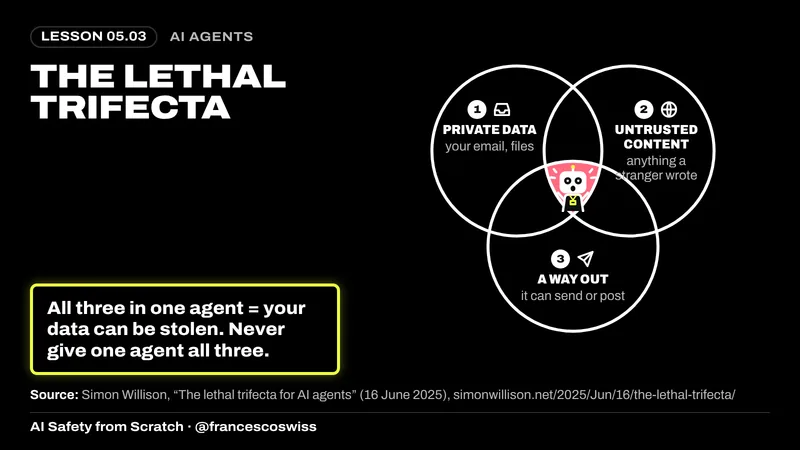
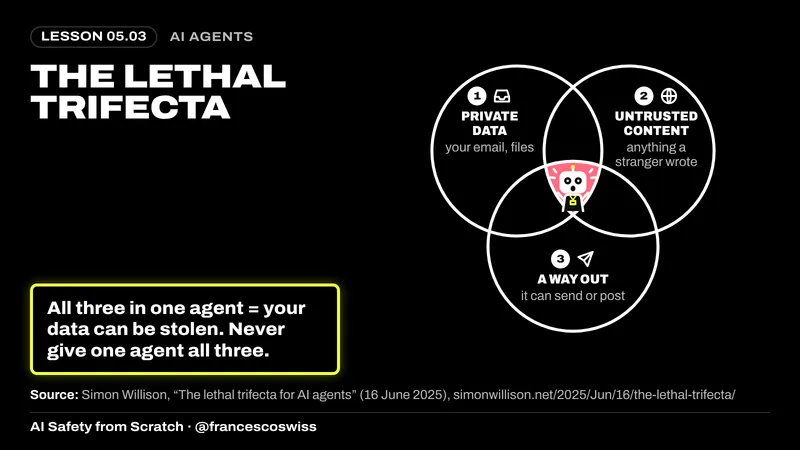
Signal locked: kit tokens 1.0.0, fixed lethal-trifecta figure; unit tests and Playwright specs; tap-target fix for summaries

Changed region(s): [[0.75, 0.1867, 0.875, 0.4044], [0.5312, 0.1867, 0.6875, 0.3422]]

diff --git a/tests/flows.spec.js b/tests/flows.spec.js
@@ -1,0 +1,118 @@
+import { test, expect } from '@playwright/test';
+import { createHash } from 'node:crypto';
+import { watchErrors, go, seedPassedFoundations } from './helpers.js';
+
+test('home shows phase map, XP bar, mascot and counts', async ({ page }) => {
+  const errs = watchErrors(page); await go(page, '#/');
+  await expect(page.getByTestId('phase-map')).toBeVisible();
+  await expect(page.getByTestId('xp-bar').getByRole('progressbar')).toBeVisible();
+  await expect(page.locator('.intern-tile svg').first()).toBeVisible();
+  await expect(page.getByTestId('written-count')).toContainText('24');
+  expect(errs).toEqual([]);
+});
+
+test('lesson: quiz feedback, complete for XP, lab and kit image', async ({ page }) => {
+  const errs = watchErrors(page); await go(page, '#/learn/01-03');
+  await expect(page.locator('img.kit-img, .kit-img img').first()).toHaveAttribute('alt', /.+/);
+  const q = page.getByTestId('question').first();
+  await q.locator('[data-correct=true]').click();
+  await expect(q.locator('.q-explain')).toContainText('Right.');
+  await page.getByTestId('complete').click();
+  await expect(page.getByTestId('xp-mini')).toContainText(/[1-9]\d* XP/);
+  // token predictor lab
+  const text = page.getByTestId('tp-text'); const before = await text.textContent();
+  await page.getByTestId('tp-gen').first().click();
+  await expect(text).not.toHaveText(before);
+  expect(errs).toEqual([]);
+});
+
+test('step-through figure: next/back changes the visible step', async ({ page }) => {
+  await go(page, '#/learn/01-03');
+  const fig = page.locator('figure.steps').first(); await fig.scrollIntoViewIfNeeded();
+  const nav = fig.locator('.steps-nav'); await expect(nav).toBeVisible();
+  await expect(nav.locator('.count')).toHaveText(/^1 of \d+/);
+  await nav.locator('[data-next]').click(); await expect(nav.locator('.count')).toHaveText(/^2 of/);
+  await nav.locator('[data-prev]').click(); await expect(nav.locator('.count')).toHaveText(/^1 of/);
+  expect(await fig.locator('.step:not([hidden])').count()).toBe(1);
+});
+
+test('phase test: 10 questions, pass at 80% (8 right)', async ({ page }) => {
+  await go(page, '#/test/p02');
+  const qs = page.getByTestId('question'); await expect(qs).toHaveCount(10);
+  for (let i = 0; i < 10; i++) await qs.nth(i).locator(i < 8 ? '[data-correct=true]' : '[data-correct=false]').first().click();
+  await page.getByTestId('submit-test').click();
+  await expect(page.getByTestId('test-result')).toHaveAttribute('data-pass', 'true');
+  await expect(page.getByTestId('test-result')).toContainText('8 of 10');
+});
+
+test('phase test: 7 of 10 does not pass; retake draws a different set', async ({ page }) => {
+  await go(page, '#/test/p03');
+  const qs = page.getByTestId('question'); const first = await qs.evaluateAll((e) => e.map((x) => x.dataset.qid).join());
+  for (let i = 0; i < 10; i++) await qs.nth(i).locator(i < 7 ? '[data-correct=true]' : '[data-correct=false]').first().click();
+  await page.getByTestId('submit-test').click();
+  await expect(page.getByTestId('test-result')).toHaveAttribute('data-pass', 'false');
+  await page.getByTestId('retake').click(); await page.waitForTimeout(300);
+  const second = await page.getByTestId('question').evaluateAll((e) => e.map((x) => x.dataset.qid).join());
+  expect(second).not.toBe(first);
+});
+
+test('certificate: locked by default', async ({ page }) => {
+  await go(page, '#/certificate/foundations');
+  await expect(page.getByTestId('cert-locked')).toBeVisible();
+});
+
+test('certificate: PNG + PDF download, code matches an independent SHA-256, verify page accepts it', async ({ page }) => {
+  const errs = watchErrors(page);
+  await seedPassedFoundations(page);
+  await go(page, '#/certificate/foundations');
+  await page.getByTestId('cert-name').fill('Ada Lovelace');
+  await expect(page.getByTestId('cert-canvas')).toHaveAttribute('data-ready', '1');
+  const code = (await page.getByTestId('cert-code').textContent()).trim();
+  expect(code).toMatch(/^[0-9A-Z]{4}-[0-9A-Z]{4}-[0-9A-Z]{4}-[0-9A-Z]{4}$/);
+  // independent recomputation
+  const phases = Array.from({ length: 11 }, (_, i) => 'p' + String(i).padStart(2, '0')).join(',');
+  const d = createHash('sha256').update(`AISFS-CERT-1|ada lovelace|foundations|${phases}|2026-10-26`).digest();
+  const A = '0123456789ABCDEFGHJKMNPQRSTVWXYZ'; let bits = '', out = '';
+  for (let i = 0; i < 10; i++) bits += d[i].toString(2).padStart(8, '0');
+  for (let i = 0; i < 80; i += 5) out += A[parseInt(bits.slice(i, i + 5), 2)];
+  expect(code.replace(/-/g, '')).toBe(out);
+  // canvas must not be tainted (WebKit + SVG image)
+  const ok = await page.getByTestId('cert-canvas').evaluate((c) => { try { return c.toDataURL('image/png').length > 10000; } catch { return false; } });
+  expect(ok).toBe(true);
+  const [png] = await Promise.all([page.waitForEvent('download'), page.getByTestId('cert-png').click()]);
+  expect(png.suggestedFilename()).toMatch(/\.png$/);
+  const [pdf] = await Promise.all([page.waitForEvent('download'), page.getByTestId('cert-pdf').click()]);
+  expect(pdf.suggestedFilename()).toMatch(/\.pdf$/);
+  const fs = await import('node:fs'); const p = await pdf.path(); expect(fs.readFileSync(p).subarray(0, 8).toString()).toContain('%PDF-1.4');
+  await go(page, '#/verify');
+  await page.getByTestId('v-name').fill('Ada Lovelace');
+  await page.getByTestId('v-date').fill('2026-10-26');
+  await page.getByTestId('v-code').fill(code.toLowerCase());
+  await page.getByTestId('v-submit').click();
+  await expect(page.getByTestId('v-out')).toHaveAttribute('data-ok', 'true');
+  await page.getByTestId('v-name').fill('Ada Lovelaca'); await page.getByTestId('v-submit').click();
+  await expect(page.getByTestId('v-out')).toHaveAttribute('data-ok', 'false');
+  expect(errs).toEqual([]);
+});
+
+test('theme toggle switches dark/daylight, persists, and repaints from tokens', async ({ page }) => {
+  await page.emulateMedia({ colorScheme: 'dark' });
+  await go(page, '#/');
+  const html = page.locator('html'); await expect(html).toHaveAttribute('data-theme', 'dark');
+  const bg = () => page.evaluate(() => getComputedStyle(document.body).backgroundColor);
+  const darkBg = await bg();
+  await page.getByTestId('theme-toggle').click();
+  await expect(html).toHaveAttribute('data-theme', 'daylight');
+  expect(await bg()).not.toBe(darkBg);
+  expect(await page.locator('meta[name=theme-color]').getAttribute('content')).toMatch(/^#/);
+  await page.reload(); await expect(html).toHaveAttribute('data-theme', 'daylight');
+});
+
+test('reduced motion: no running animations on step-through and mascot', async ({ page }) => {
+  await page.emulateMedia({ reducedMotion: 'reduce' });
+  await go(page, '#/');
+  await go(page, '#/learn/01-03');
+  await page.locator('figure.steps [data-next]').first().click();
+  const running = await page.evaluate(() => document.getAnimations().filter((a) => a.playState === 'running' && (a.effect?.getComputedTiming().duration || 0) > 50).length);
+  expect(running).toBe(0);
+});

diff --git a/tests/helpers.js b/tests/helpers.js
@@ -1,0 +1,35 @@
+import { expect } from '@playwright/test';
+// Collect console errors and page errors for the whole test.
+export function watchErrors(page) {
+  const errs = [];
+  page.on('console', (m) => { if (m.type() === 'error') errs.push(m.text()); });
+  page.on('pageerror', (e) => errs.push(String(e)));
+  return errs;
+}
+export async function go(page, hash) {
+  await page.goto('./' + hash);
+  await page.waitForFunction(() => document.querySelector('#main')?.children.length > 0);
+  await page.waitForTimeout(150);
+}
+export async function noOverflow(page) {
+  const o = await page.evaluate(() => ({ sw: document.documentElement.scrollWidth, w: window.innerWidth,
+    wide: [...document.querySelectorAll('body *')].filter((e) => { const r = e.getBoundingClientRect(); return r.width && r.right > window.innerWidth + 1 && getComputedStyle(e).position !== 'fixed' && !e.closest('.sr, [hidden], pre, .table-wrap'); }).slice(0, 5).map((e) => e.tagName + '.' + e.className) }));
+  expect(o.sw, `horizontal overflow: ${o.wide.join(', ')}`).toBeLessThanOrEqual(o.w + 1);
+}
+// Tap targets ≥44px (WCAG 2.5.5). Inline links inside sentences are exempt, as WCAG allows.
+export async function tapTargets(page) {
+  const bad = await page.evaluate(() => {
+    const sel = 'button, .btn, select, input:not([type=radio]):not([type=checkbox]):not([type=hidden]), summary, label.q-opt, a.chip, button.chip, .top a, .lesson-nav a, .lessons a, .phase-map a, [role=button]';
+    return [...document.querySelectorAll(sel)].filter((e) => {
+      const r = e.getBoundingClientRect(); const cs = getComputedStyle(e);
+      if (!r.width || !r.height || cs.visibility === 'hidden' || e.closest('[hidden], .sr, .skip')) return false;
+      return r.height < 43.5 || (e.matches('button, .btn, select, summary, a.chip, button.chip, [role=button]') && r.width < 43.5);
+    }).slice(0, 8).map((e) => `${e.tagName}.${e.className} "${(e.textContent || '').trim().slice(0, 30)}" ${Math.round(e.getBoundingClientRect().width)}x${Math.round(e.getBoundingClientRect().height)}`);
+  });
+  expect(bad, 'tap targets under 44px').toEqual([]);
+}
+export const seedPassedFoundations = (page, extra = {}) => page.addInitScript(([extra]) => {
+  if (sessionStorage.getItem('seeded')) return; sessionStorage.setItem('seeded', '1');
+  const tests = {}; for (let i = 0; i <= 10; i++) tests['p' + String(i).padStart(2, '0')] = { best: 1, passed: true, date: '2026-10-26', attempts: 1 };
+  localStorage.setItem('aisfs-v1', JSON.stringify({ v: 1, xp: 0, lessons: {}, quiz: {}, tests, days: [], name: '', certs: {}, labs: {}, last: null, ...extra }));
+}, [extra]);

diff --git a/tests/pages.spec.js b/tests/pages.spec.js
@@ -1,0 +1,24 @@
+import { test, expect } from '@playwright/test';
+import { watchErrors, go, noOverflow, tapTargets } from './helpers.js';
+const ROUTES = ['#/', '#/learn/00-01', '#/learn/01-03', '#/learn/02-01', '#/learn/03-06', '#/learn/04-01', '#/phase/p02', '#/test/p01', '#/progress', '#/glossary', '#/verify', '#/about', '#/labs', '#/lab/token-predictor', '#/certificate/foundations'];
+for (const r of ROUTES) {
+  test(`page ${r}: banner, no overflow, no console errors, tap targets`, async ({ page }) => {
+    const errs = watchErrors(page);
+    await go(page, r);
+    await expect(page.getByTestId('draft-banner')).toBeVisible();
+    await expect(page.getByTestId('draft-banner')).toContainText('Draft preview');
+    await noOverflow(page);
+    await tapTargets(page);
+    expect(errs).toEqual([]);
+  });
+}
+test('robots: noindex, nofollow meta and robots.txt', async ({ page, request }) => {
+  await go(page, '#/');
+  await expect(page.locator('meta[name=robots]')).toHaveAttribute('content', 'noindex, nofollow');
+  const r = await request.get('./robots.txt'); expect(r.ok()).toBeTruthy(); expect(await r.text()).toMatch(/Disallow: \//);
+});
+test('banner stays visible after scrolling', async ({ page }) => {
+  await go(page, '#/learn/01-03');
+  await page.mouse.wheel(0, 3000); await page.evaluate(() => window.scrollTo(0, 3000)); await page.waitForTimeout(200);
+  await expect(page.getByTestId('draft-banner')).toBeInViewport();
+});

diff --git a/tests/screenshots.spec.js b/tests/screenshots.spec.js
@@ -1,0 +1,12 @@
+import { test } from '@playwright/test';
+import { go } from './helpers.js';
+// Writes screenshots/<project>-<page>-<theme>.png. Run: npm run shots
+const PAGES = [['home', '#/'], ['lesson-01-03', '#/learn/01-03'], ['lesson-03-06', '#/learn/03-06'], ['phase-p02', '#/phase/p02'], ['progress', '#/progress']];
+for (const theme of ['dark', 'daylight']) for (const [name, hash] of PAGES) {
+  test(`shot ${name} ${theme}`, async ({ page }, info) => {
+    if (!['desktop', 'iphone-14', 'android-360'].includes(info.project.name)) test.skip();
+    await page.addInitScript((t) => localStorage.setItem('aisfs-theme', t), theme);
+    await go(page, hash); await page.waitForTimeout(400);
+    await page.screenshot({ path: `screenshots/${info.project.name}-${name}-${theme}.png`, fullPage: name !== 'lesson-01-03' && name !== 'lesson-03-06' });
+  });
+}

diff --git a/src/styles/tokens.css b/src/styles/tokens.css
@@ -1,8 +1,8 @@
-/* Theme font files (bundled locally). Part of the theme: replace together with the tokens below. */
+/* Theme font files (bundled locally). Kept with the tokens so the whole theme lives in one file. */
 @import '@fontsource-variable/archivo/wdth.css';
 @import '@fontsource-variable/jetbrains-mono/index.css';
 
-/* AI Safety from Scratch design tokens: Signal (PROVISIONAL).
+/* AI Safety from Scratch design tokens: Signal (locked 2026-10-26).
  * Generated by /workspace/brand/ai-safety-kit/build/tokens.py, 2026-10-26. Same names as the JSON file.
  * Rules: one highlighter per surface; highlighter is a fill behind ink text, never text on light;
  * --muted (#8F8F8F) only for large or decorative text, use --muted-strong for small text;

diff --git a/src/styles/base.css b/src/styles/base.css
@@ -262,3 +262,4 @@ code, kbd, pre, .mono { font-family: var(--font-mono); font-size: .9em; }
 /* Draft preview banner: on every page until launch */
 .draft-banner { background: var(--accent); color: var(--on-accent); font-size: var(--text-sm); line-height: 1.35; text-align: center; padding: 6px var(--space-4); }
 .draft-banner b { font-weight: var(--weight-black); text-transform: uppercase; letter-spacing: .04em; }
+summary { cursor: pointer; min-height: var(--tap-min); display: flex; align-items: center; }
